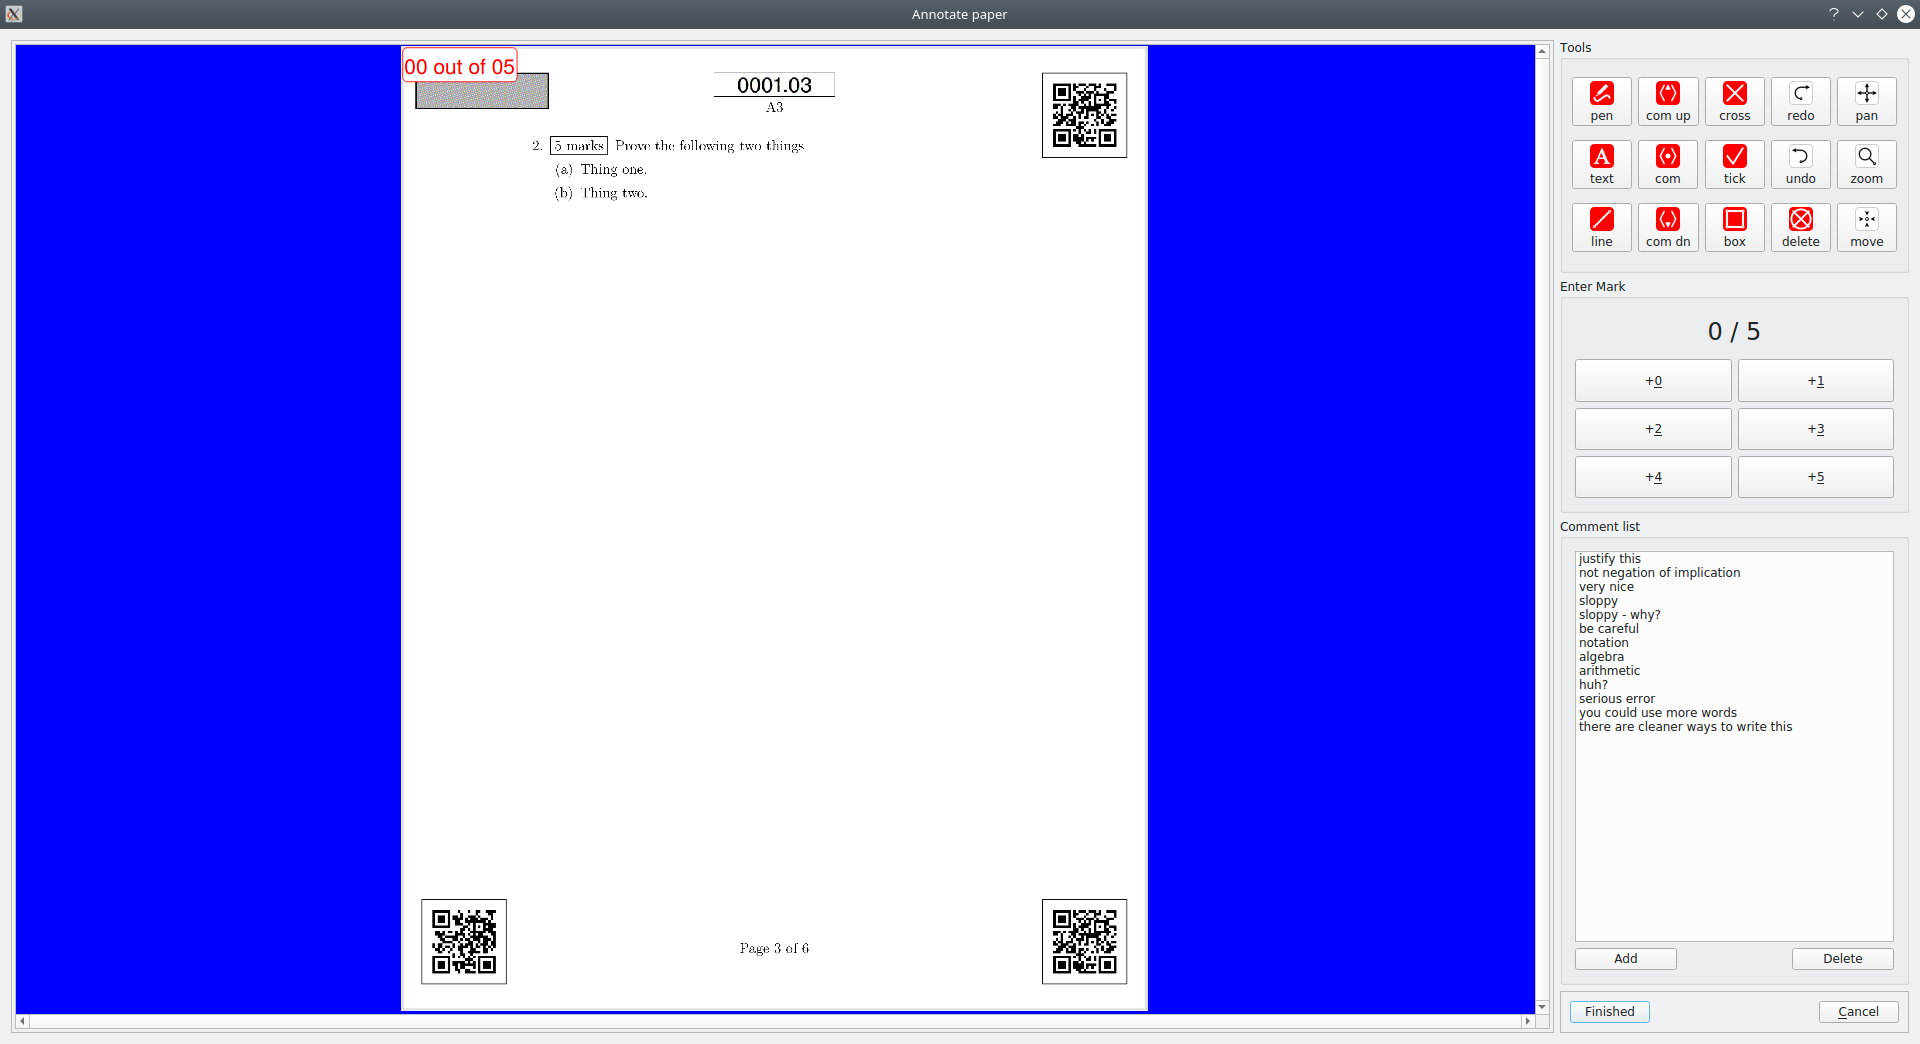
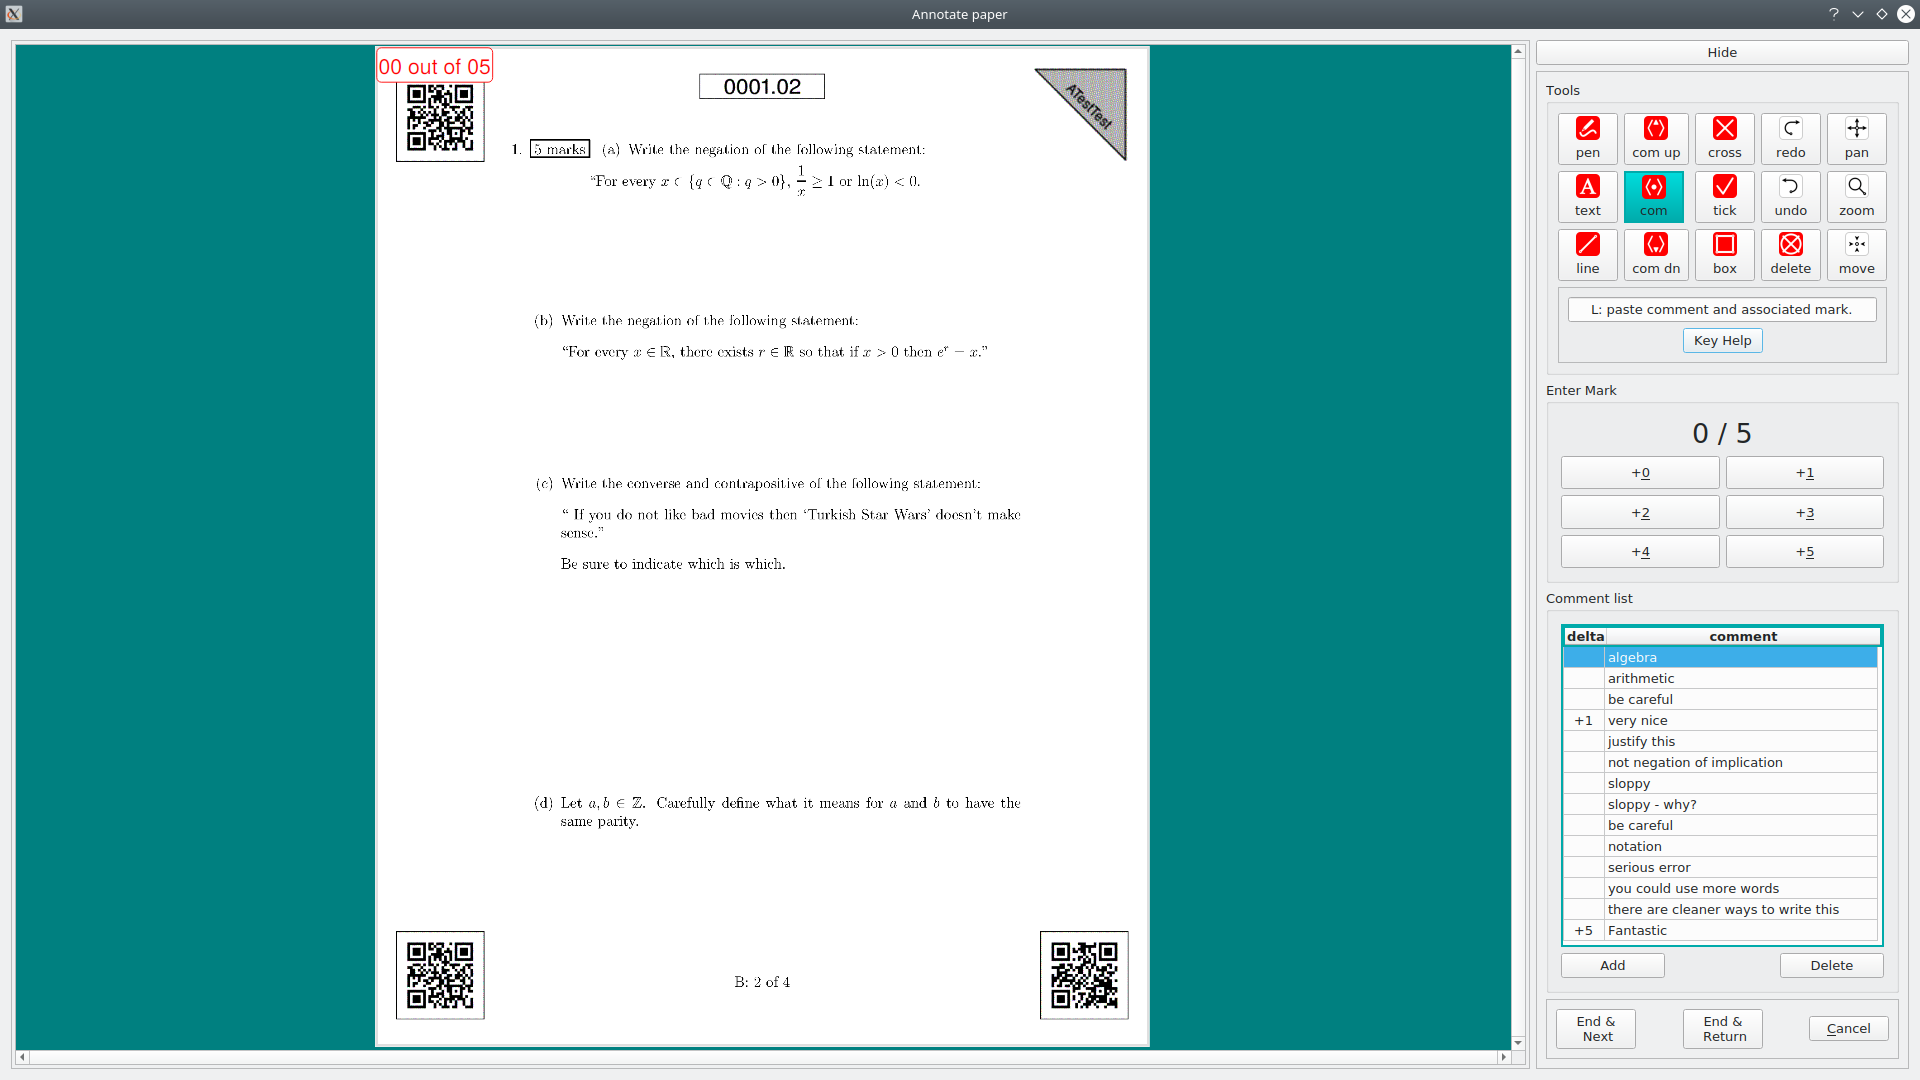
Updated some documentation.

diff --git a/docs/marking_papers.md b/docs/marking_papers.md
@@ -14,16 +14,18 @@ __license__ = "GFDL"
 * A couple of moments after clicking "start" on the launch page, a window should pop up that looks like this:
 ![](figs/client2.png)
 * In the top-left there is basic information about the user, the page-group, version and the maximum mark for that page-group.
-* The list of papers shows the code of the page-groups you are marking (and have marked). The "previous" and "next" buttons just move you up and down this list. These buttons will likely be removed in the future since you can just click or use arrows.
-* The next three buttons are perhaps the most important
+* The list of papers shows the code of the page-groups you are marking (and have marked). You can click on one to select it.
+
+* The next four buttons are perhaps the most important
   * *Get next* - requests another page-image from the server. As you annotate the software should automatically get the next image for you, but you can also click this.
   * *Revert* - takes a marked page-image and wipes it clean - reverting it to its unmarked state. Handy if you make a mistake.
+  * *Defer* - this marks the entry to be deferred for you to look at later. Handy when you are not sure how to mark this paper and don't want the system to keep coming back to it.
   * *Annotate & mark* - this fires up the annotation window (more on this shortly).
 * Marking styles - These change the behaviour of marking in the annotation window. I recommend using either *mark up* or *mark down*.
   * *Mark up* - the system assumes that the page-image starts with a mark of zero and then you can incrementally assign non-negative marks (0,+1,+2,+3,+4,+5) to the page. So, for example, if the page has two parts, each out of 3 and the student gets marks of 1 and 3 (respectively), then you can stamp "+1" next to the first, and "+3" to the second, and the system will total the marks for you.
   * *Mark down* - the system assumes that the page-image starts with the maximum possible mark and then you decrement marks (-1,-2,-3,-4,-5) as you find mistakes. So, for example, if the page has two parts, each out of 3 and the student gets marks of 1 and 3 (respectively), then you can stamp "-2" next to the first, and leave the second part alone (though maybe you'll put a tick there).
   * *Total* - you don't assign part-marks, instead you click on the total mark.
-  * *Later* - instead of choosing now, you can choose the marking style inside the annotation window.
+
 * In an attempt to make annotation as efficient as possible, I have tried to set things up so that you can keep one hand on the keyboard (to choose annotation tools), and one hand on the mouse. Rather than inflicting the tyrrany of the majority onto the left-handed, you can choose which is your mouse hand.
   * The choice changes the layout of the annotation window, and in particular it changes the keyboard shortcuts for the tools.
   * The tools are mostly set up for right-handed people, but I have done my best to accommodate a left-handed setup. Not everything is easily mirrored (eg mark numbers), so I am happy to get feedback on it.
@@ -35,7 +37,7 @@ __license__ = "GFDL"
   * The *flip pages* button allows you to fix the orientation of the page images. The software does a pretty good job of ensuring that each page image is the right way up, but errors do happen. This button fires up a new window to allow you to flip pages 180-degrees. You shouldn't need this.
 
 ### Please close the window
-* Again - we recommend that you close the window when you leave your computer for more than a few minutes. This makes sure all data is saved on the server.
+* Again - we recommend that you close the window when you leave your computer for more than a few minutes. This makes that any unmarked papers you have locally are released back to the server, and so other people can mark them.
 * The close button closes does this.
 * When you fire up the launch window again it will remember the data you entered previously and you should only have to enter your password.
 
@@ -45,7 +47,8 @@ __license__ = "GFDL"
 * And here is the left-hand mouse version with *mark up* selected:
 ![](figs/client3l.png)
 * In both cases there is 5x3 bank of tool buttons (more on those in a moment), some marking buttons, a bank of standard comments and "finished" and "cancel" buttons.
-* *Finished* accepts your annotations and marks and bounces you back to the paper-listing window. That window should automatically load a new page-image for you. You can then just type "enter" again to fire up the annotation window.
+* *End & next* accepts your annotations and marks and automatically loads the next paper and fires up the annotation window.
+* *End & return* accepts your annotations and marks but bounces you back to the paper-listing window. That window should automatically load a new page-image for you. You can then just type "enter" again to fire up the annotation window.
 * *Cancel* bounces you back to the paper-listing window without recording either your annotations or marks.
 * Note that the "+" and "\" keys will maximise (un-maximise) the annotation window.
 
@@ -56,24 +59,36 @@ __license__ = "GFDL"
   * In the left-hand mouse version h,j,k,l and semi-colon correspond to text, commend, tick, undo and zoom (respectively).
   * The top row of tools correspond to the keys above the home-row. ie, qwert and yuiop.
   * The bottom row of tools correspond to the keys below the home-row. ie, zxcvb and n m comma period slash.
+
 * The tools are (I hope) pretty obvious, but with a few idiosyncracies
+
   * *Pan* - clicking and dragging moves the page image.
+
   * *Zoom* - left-click to zoom in and right-click to zoom out.
+
   * *Move* - allows you to move your annotations around
+
   * *Undo / redo* - the annotation window has a full (or very full) undo/redo stack
-  * *Delete* - delete the annotation you click on (this can be a bit fussy, so you might have to click carefully to delete thin objects like lines)
-  * *Cross / Tick* - places a cross or tick on the page. Notice that if you have the tick tool selected, then the left mouse-button will create a tick, while the right mouse-button will create a cross. If you have the cross tool the reverse happens.
-  * *Box* - click and drag with the left mouse-button will create a high-light box. Click and drag with the right mouse-button will create an opaque white box. You should not need the white box much.
-  * *Comments* - these three buttons select from and move up/down the comment-list. After you have selected a comment, a left-mouse click pastes the comment into the page-image. After that the pasted comment can be treated like any other text object and the text tool will let you edit it. The system saves your comments between sessions (in a json file).
-    * You can create and delete comments by using the obvious buttons.
-    * You can also edit existing comments by double clicking on them.
-    * You can reorder the comments by click-dragging up and down the list.
+
+  * *Delete* - delete the annotation you click on
+
+  * *Cross / Tick (Question mark)* - places a cross or tick on the page. Notice that if you have the tick tool selected, then the left mouse-button will create a tick, while the right mouse-button will create a cross. If you have the cross tool the reverse happens. In both cases the middle button pastes a question-mark.
+corded
+  * *Box (Ellipse)* - click and drag with the left mouse-button will create a high-light box. Click and drag with the right mouse-button will create an ellipse centred at your initial click.
+
   * *Pen* - dragging with left mouse-button creates a free-hand red path, while the right mouse-button creates a thick yellow highlight-path.
-  * *Text* - a simple text tool. To exit the text tool you press escape or shift-return. Double-clicking will start a new text object under your click. You can also go back an edit previous text by clicking on it.
+
   * *Line* - dragging with left mouse-button creates a straight-line, while the right mouse-button creates a similar arrow.
 
+  * *Comments* - Lets come back to these shortly once we have covered "assigning marks"
+
+  * *Text* - a simple text tool. To exit the text tool you press escape or shift-return. Double-clicking will start a new text object under your click. You can also go back an edit previous text by clicking on it.
+    * Basic LaTeX is supported. Press control-enter to end the comment (command-enter on a mac), and the text will be replaced by its latex'd equivalent. You can go back and edit it by simply clicking again with the text-tool
+    * Coming-soon, latex will also be supported by starting your comment with the 3 letters "TEX". When you end the comment (with shift-enter) then it will be automatically latex'd.
+
+
 ### Assigning marks
-![](figs/client3r1.png)
+![](figs/client3r1.png?)
 * Perhaps the easiest way to assign marks is to use either the *mark up* or *mark down* methods.
 * In mark-up you can assign 0,+1,+2,+3,+4 or +5 marks. Clicking on the appropriate button or pressing 0,1,2,3,4 or 5 (and also the single-quote key to get 0), and then left-clicking on the page will stamp that onto the page (with a little box around it).
 * In mark-down you assign -1,-2,-3,-4 or -5 marks. Again the button or pressing 1,2,3,4 or 5 and then left-clicking on the page stamps the page.
@@ -81,9 +96,32 @@ __license__ = "GFDL"
 * In both cases the mark (stamped in the top-left of the page) is updated. These also work correctly with the undo/redo and delete tools.
 * In mark-total, the user simply clicks the appropriate button for the total-mark and the mark is updated accordingly.
 
+
+### Comments
+* The comment system is driven by the box of comments in the lower-left (if right-handed mouse selected) of the annotation window.
+![](figs/client_comment1.png)
+* These comments combine both the delta-mark tool and the text tool. When a comment is selected then a left-click will paste both the delta-mark and the text into the window. After that the pasted comment can be treated like any other text object and the text tool will let you edit it.
+
+* The comments should give you a very fast way of leaving consistent feedback. The markers of a particular question should decided on text + deltas to match the given question marking-scheme. Unfortuantely there is not a (seemless) way to share comments between clients.
+
+* The system saves your comments between sessions (in a json file). Giving a copy of this file to another marker means that their system will start with those same comments.
+
+* You can reorder the comments by click-dragging up and down the list. Move your most common comments to the top of the list.
+
+* You can create and delete comments by using the obvious buttons.
+
+* You can also edit the comments by double clicking on the text (or delta).
+
+* Notice that there are 3 comment tool buttons ("r","f","v" keys for right-hand-mouse). "COM UP" moves up one comment, and "COM DOWN" moves down one comment. "COM" reselects the current comment, but pressing it again will move down one comment - handy for moving around the comments.
+
 ### Done marking
 * If you don't like you annotations or mark, then you can click the cancel button and the system will return you to the paper-listing window.
-* More generally, once you are finished marking you can type alt-enter and the system will accept your annotations and mark.
+
+* More generally, once you are finished marking you can type alt-enter, or control-n or control-b, or click "End & Next" and the system will accept your work and automatically fire up the next paper.
+
+* Clicking "End & return" accepts your work, but does not fire up next paper.
+
+* The system does have some sanity checks (nags) built in:
   * If you are marking-up and have assigned a mark of zero then the system will ask you to confirm.
   * If you are marking-down and have assigned full marks, then the system will also ask you to confirm.
-* After you bounce back to the paper-listing window the system will save your results and automatically request the next page-image. Press enter and the annotation window will fire up on this new page-image.
+  * If you have left no text on the page, but have not given either zero or full marks, then the system will ask you to confirm. We want you to leave feedback!

diff --git a/docs/starting_the_client.md b/docs/starting_the_client.md
@@ -7,35 +7,39 @@ __license__ = "GFDL"
 ## Permisisons and clicking
  * Linux and OSX - you might need to make sure that the file is executable, using the following command in a terminal
  ```
- chmod u+x ./mlp_client_linux
+ chmod u+x ./client_linux
  ## or
- chmod u+x ./mlp_client_osx
+ chmod u+x ./client_osx
  ```
  and then run it from the same terminal via
  ```
-./mlp_client_linux              
+./client_linux              
  ## or
- ./mlp_client_osx
+ ./client_osx
  ```
 The name of the files might be slightly different (eg they might include a date or a build number).
 
  * Windows - you should be able to just double click on the file. You might need to click through a few warnings about whether or not the file is to be trusted.
 
- ## Launch window
-  * The client might take up to a few seconds to start. This is because it is really a compressed bundle python code and enough libraries to run everything. When it runs it starts by unpacking itself into a temporary directory and then firing up the code. This can take a few moments. Sorry.
-  * Then you'll be presented with a window like this:
-  ![](figs/client0.png)
-  * There are 3 possible tasks
+## Launch window
+* The client might take up to a few seconds to start. This is because it is really a compressed bundle python code and enough libraries to run everything. When it runs it starts by unpacking itself into a temporary directory and then firing up the code. This can take a few moments. Sorry.
+
+* Then you'll be presented with a window like this: ![](figs/client0.png)
+
+* After you have picked your task you need to enter some name and server data:
+  * *username* and *password* - should be supplied to you by the IIC, and I hope is pretty obvious what it means.
+  * *server name* - this is the name of the computer that is running the software that handles all the page images and data. Again - the IIC will tell you what this is.
+  * *Ports* - these are the ports used by the software to communicate with your client. You don't need to change these unless the IIC tells you to do so.
+  * If you are marking papers (which almost certainly you will be) then you also need to enter the following
+  * *Page group* - the basic chunk of a test that you will mark is a page-group. In many cases this will just be a single page of the test. However, sometimes a page will have multiple questions on it, and sometimes a question might extend over multiple pages. Hence MLP refers to "page-groups" rather than "pages" or "questions". Your IIC will tell you what page group you are assigned to mark.
+  * *Version* - since classrooms are crowded, almost certainly the instructors have given multiple versions of the test to their students. The MLP software will present you with just one version of the page group to which you have been assigned. Your IIC will tell you which version you are to mark.
+  * *Font size* - if the displayed font is too big or too large, then please change it here (and click the *set font* button). This will propogate through the rest of the app.
+
+* There are 3 possible tasks
     * *Mark* - this will fire up the marking window which allows you (as the name implies) to mark and annotate pages. You will spend most of your time on this task.
     * *Identify* - this will fire up the test-identifying window.
-    * *Run away* - this simply closes the client.
+    * *Total* - this will fire up the test-total window
+    * *Close* - this (unsurprisingly) closes the client.
 
-  * After you have picked your task you need to enter some name and server data:
-    * *username* and *password* - should be supplied to you by the IIC, and I hope is pretty obvious what it means.
-    * *server name* - this is the name of the computer that is running the software that handles all the page images and data. Again - the IIC will tell you what this is.
-    * *Ports* - these are the ports used by the software to communicate with your client. You don't need to change these unless the IIC tells you to do so.
-  * If you are marking papers (which almost certainly you will be) then you also need to enter the following
-    * *page group* - the basic chunk of a test that you will mark is a page-group. In many cases this will just be a single page of the test. However, sometimes a page will have multiple questions on it, and sometimes a question might extend over multiple pages. Hence MLP refers to "page-groups" rather than "pages" or "questions". Your IIC will tell you what page group you are assigned to mark.
-    * *version* - since classrooms are crowded, almost certainly the instructors have given multiple versions of the test to their students. The MLP software will present you with just one version of the page group to which you have been assigned. Your IIC will tell you which version you are to mark.
 
- * Once you have entered all the required data just click "start"
+ * Click one.

diff --git a/docs/identifying_papers.md b/docs/identifying_papers.md
@@ -8,22 +8,23 @@ __license__ = "GFDL"
 ## A little background first
 * When the test papers are produced every page of every test is stamped with unique QR-codes that identify them. The code is of the form TxxxxPyyVz - where xxxx is the test number, yy is the page number and z is the version of that page.
 * Hence it is easy (barring scanning mishaps) to reconstruct a paper from the scans of its individual pages - even if those scans are completely out of order. It is, however, a harder computing problem to determine *whose* paper it is.
-* Unfortunately MLP doesn't yet use machine learning (or other buzzword compliant technologies) to automagically read student numbers off the front pages of tests. Perhaps in time, we'll use check-boxes or something fancier (ie buzzword compliant). But, alas, not yet.
-* Hence we have to match a given paper to a given student - this is where you come in. We need you to read student numbers off the front page of tests.
-* It is a little tedious, but isn't difficult.
+* MLP can use a (buzzword compliant) neural-network to read student numbers from the front page of tests (providing they use the provided template) and so predict which student number in the class list is mostly likely to be matched to the current paper. It appears to do this with very high accuracy.
+
+* Unfortunately, MLP does not yet do a good job of predicting which of its predictions are poor. Hence we have to match a given paper to a given student - this is where you come in. We need you to read student numbers off the front page of tests.
+* It is a little tedious, but it is pretty quick and easy.
 
 ## Identifier window
 * A couple of moments after clicking "start" on the launch page, a window should pop up that looks like this:
 ![](figs/client1.png)
-* On appearing, the window should already be populated with an ID-page of a test.
+* On appearing, the window should already be populated with an ID-page of a test, and (if predictions have been made), the predicted student number / name in large letters.
 * If the page-image is too small, then you can left-click on it to zoom in, and right-click to zoom-out.
 * We recommend that you identify papers by the student-number rather than student-name.
-* As you enter the student-number in text-entry box, a pop-up auto-completer should appear. The pop-up is populated (all going well) by data from the class list.
+* If predictions have been made then the student-number text-box will have been filled in already. If not, then you can enter the number in that box and a pop-up auto-completer should appear. The pop-up is populated (all going well) by data from the class list.
 * Once you've entered the number (or name), then hitting enter will pop up a "Are you sure" window (just in case). Hitting enter again will accept the result.
 * The next ID-page should be automatically loaded and you can continue.
 * If you need to go back to re-ID a page then you can simply click on that page from the "table of papers" and re-enter the data.
 * If the system does not recognise the student-number we recommend that you tell your IIC (though there is the option to enter unrecognised student number / name pairs).
 
 ## Please close the window
-* We recommend that you close the window when you leave your computer for more than a few minutes. This makes sure all data is saved on the server.
+* We recommend that you close the window when you leave your computer for more than a few minutes. This makes sure that any un-ID'd papers you have locally are released back to the server and so they can be ID'd by other users.
 * When you fire up the launch window again it will remember the data you entered previously and you should only have to enter your password.
